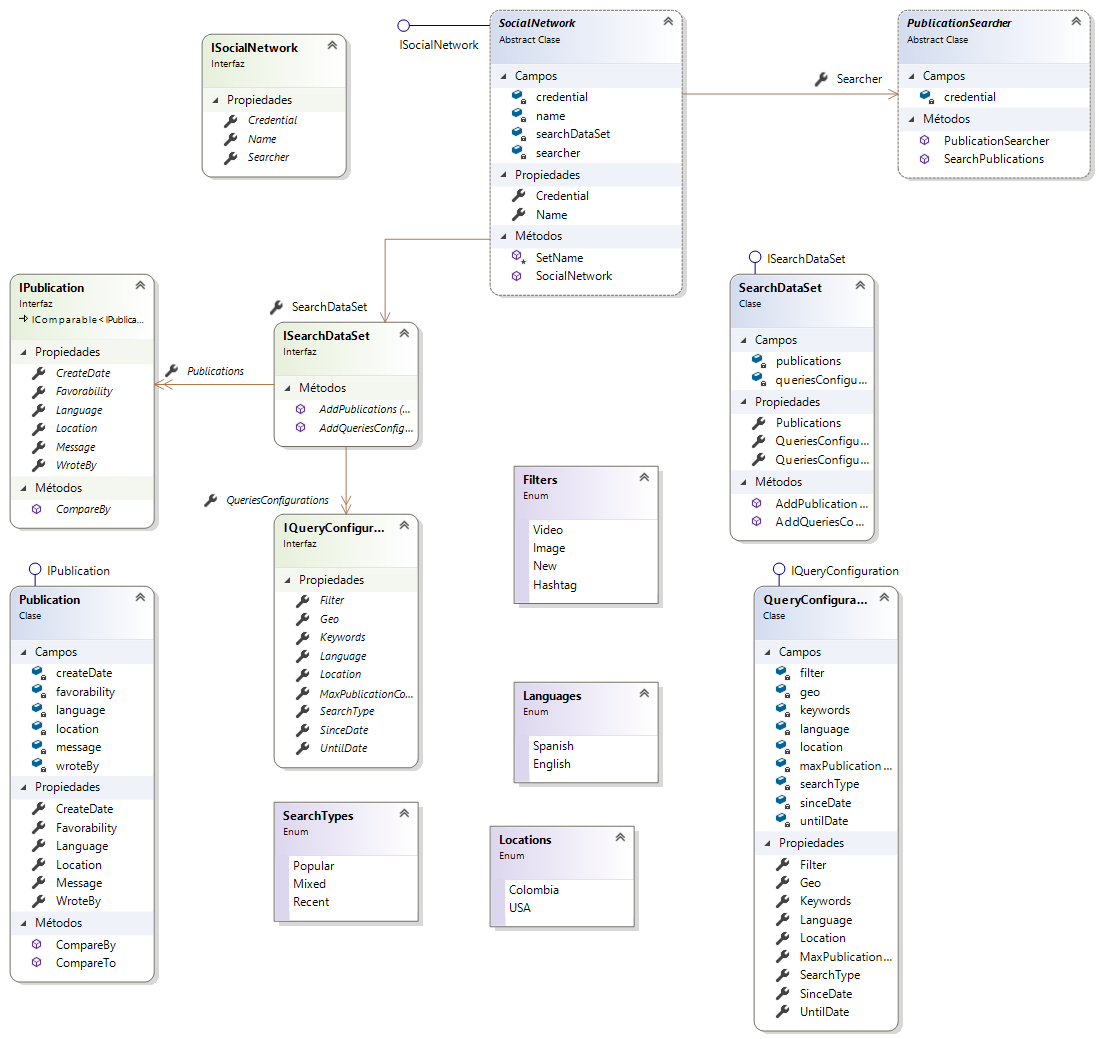
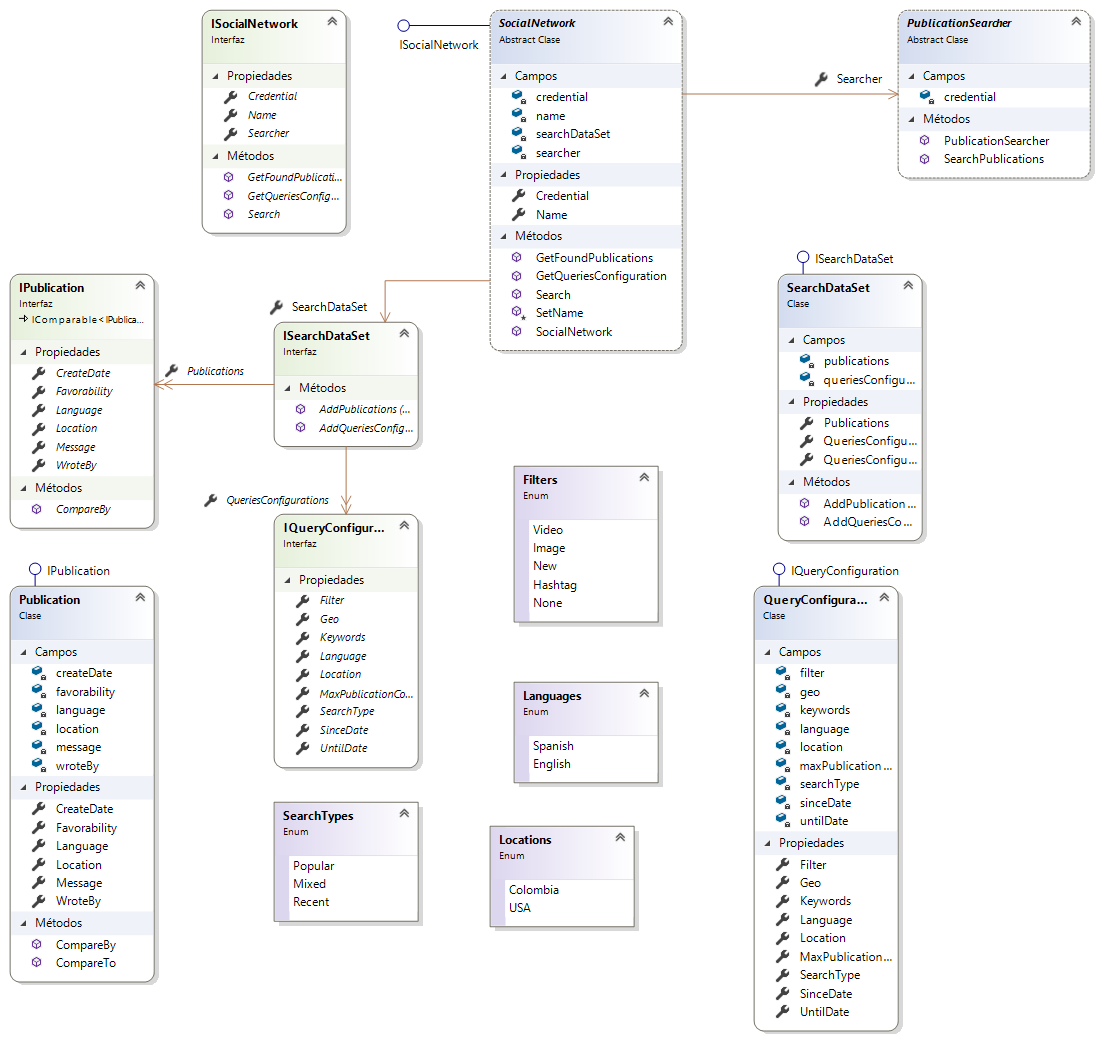
Added png image

Changed region(s): [[0.4641, 0.2464, 0.8662, 0.5236], [0.1856, 0.0, 0.3403, 0.2464], [0.4641, 0.5544, 0.6187, 0.616]]

diff --git a/FeelSoftSolution/SocialNetworkConnection/SocialNetwork.cs b/FeelSoftSolution/SocialNetworkConnection/SocialNetwork.cs
@@ -21,6 +21,7 @@ namespace SocialNetworkConnection
 
         public SocialNetwork()
         {
+            searchDataSet = new SearchDataSet();
         }
 
       
@@ -28,6 +29,21 @@ namespace SocialNetworkConnection
         protected void SetName(string name)
         {
            this.name = name;
+        }
+
+        public IList<IPublication> Search(IList<IQueryConfiguration> )
+        {
+            throw new NotImplementedException();
+        }
+
+        public void GetFoundPublications()
+        {
+            throw new NotImplementedException();
+        }
+
+        public void GetQueriesConfiguration()
+        {
+            throw new NotImplementedException();
         }
 
         public string Name

diff --git a/FeelSoftSolution/FacebookConnection/Facebook.cs b/FeelSoftSolution/FacebookConnection/Facebook.cs
@@ -23,13 +23,17 @@ namespace FacebookConnection
                 BaseAddress = new Uri("https://graph.facebook.com/v2.12/")                                
             };
 
-
             client.DefaultRequestHeaders.Accept.Add(new MediaTypeWithQualityHeaderValue("application/json"));
-
             Searcher = new FacebookSearcher(client);
-            SetName("Facebook");                 
+            SetName("Facebook");     
+            
         }
 
+        public 
+
+        
+
+        
         
 
 

diff --git a/FeelSoftSolution/SocialNetworkConnection/ISocialNetwork.cs b/FeelSoftSolution/SocialNetworkConnection/ISocialNetwork.cs
@@ -11,6 +11,8 @@ namespace SocialNetworkConnection
         string Credential { get; }
         PublicationSearcher Searcher { get; set; }
 
-       
+        void Search();
+        void GetFoundPublications();
+        void GetQueriesConfiguration();
     }
 }

diff --git a/FeelSoftSolution/SocialNetworkConnection/PublicationSearcher.cs b/FeelSoftSolution/SocialNetworkConnection/PublicationSearcher.cs
@@ -10,7 +10,7 @@ namespace SocialNetworkConnection
     {
         private string credential;
 
-        public PublicationSearcher()
+        public PublicationSearcher(string credential)
         {
 
         }       

diff --git a/FeelSoftSolution/SocialNetworkConnection/Filters.cs b/FeelSoftSolution/SocialNetworkConnection/Filters.cs
@@ -10,6 +10,7 @@ namespace SocialNetworkConnection
         Video,
         Image,
         New,
-        Hashtag
+        Hashtag,
+        None
     }
 }
